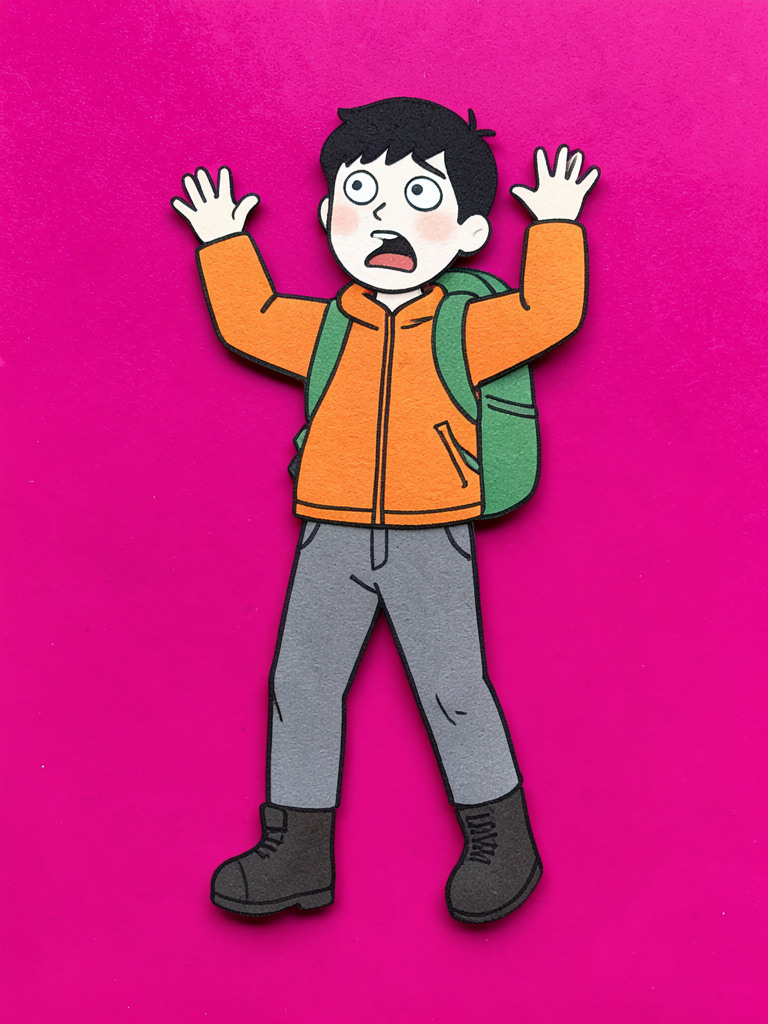
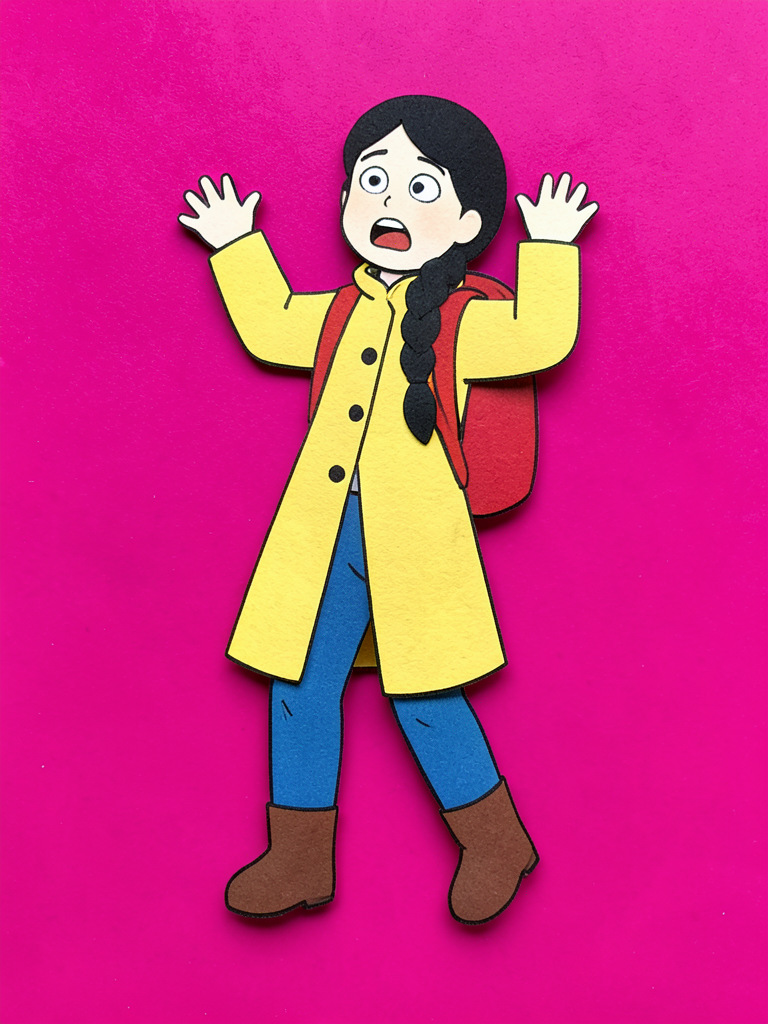
feat: give each Short its own explorer and its own music
The five Shorts posted one a day all showed the same hiker over the same
tune. Three of them now have their own explorer layer, and giay/nhac.js
gains selectable pieces (MUSIC in loi.js) that differ in instruments,
tempo, key and melody. A story without MUSIC gets "song", byte-identical
to the old output.

Changed region(s): [[0.2188, 0.0938, 0.8125, 0.9062], [0.8438, 0.1875, 0.9062, 0.2188]]

diff --git a/giay/nhac.js b/giay/nhac.js
@@ -1,16 +1,17 @@
 // Sound for a paper-cut story: joins the narration lines doc.js fetched and lays one unbroken piece under them,
-// in D minor pentatonic with a written melody. The moods of the shots only change how many layers play, so nothing
-// restarts between shots. Writes <story-folder>/xuat/am.m4a.
+// in a minor pentatonic with a written melody. The moods of the shots only change how many layers play, so nothing
+// restarts between shots. `const MUSIC = "<piece>"` in loi.js picks one of PIECES below (tempo, key, melody, lead
+// sound), so stories posted side by side do not all sound the same; without it the story gets "song".
+// Writes <story-folder>/xuat/am.m4a.
 // Usage: node giay/nhac.js <story-folder>
 const { execFileSync } = require("child_process");
 const fs = require("fs");
 const path = require("path");
 
 const SR = 44100;
-const BEAT = 60 / 72;
 const dir = path.resolve(process.argv[2]);
 const xuat = path.join(dir, "xuat");
-const SHOTS = new Function(fs.readFileSync(path.join(dir, "loi.js"), "utf8") + "\nreturn SHOTS;")();
+const [SHOTS, MUSIC] = new Function(fs.readFileSync(path.join(dir, "loi.js"), "utf8") + "\nreturn [SHOTS, typeof MUSIC === 'undefined' ? 'song' : MUSIC];")();
 const durs = JSON.parse(fs.readFileSync(path.join(xuat, "durs.json"), "utf8"));
 const ff = (args) => execFileSync("ffmpeg", ["-v", "error", "-y", ...args]);
 
@@ -61,29 +62,147 @@ function drum(f0) {
   return b;
 }
 
-const NOTE = { C4: 261.63, D4: 293.66, F4: 349.23, G4: 392, A4: 440, C5: 523.25, D5: 587.33 };
-const N = (name) => NOTE[name];
-// two four-bar phrases, one note per beat, null is a rest
-const MELODY = ["D4", "G4", "A4", "G4", "C5", "A4", "G4", "D4", "G4", "A4", "C5", "D5", "C5", "A4", "G4", null,
-  "D5", "C5", "A4", "G4", "A4", "G4", "D4", "C4", "D4", "G4", "A4", "G4", "D4", null, null, null];
-const ROOT = { D: [73.42, 110, 146.83], F: [87.31, 130.81, 174.61] };
+// glassy and long, for water and wonder
+function bell(f, dur) {
+  const b = new Float32Array(Math.round(Math.max(dur, 2.5) * SR));
+  for (let i = 0; i < b.length; i++) { const t = i / SR; b[i] = Math.min(1, t / 0.003) * (Math.exp(-t * 1.8) * Math.sin(2 * Math.PI * f * t) + 0.35 * Math.exp(-t * 4) * Math.sin(2 * Math.PI * 2.76 * f * t) + 0.12 * Math.exp(-t * 7) * Math.sin(2 * Math.PI * 5.4 * f * t)); }
+  return b;
+}
+// breathy and held, for air
+function flute(f, dur) {
+  const b = new Float32Array(Math.round(dur * SR));
+  let ph = 0;
+  for (let i = 0; i < b.length; i++) {
+    const t = i / SR;
+    ph += (2 * Math.PI * f * (1 + 0.004 * Math.min(1, t / 0.6) * Math.sin(2 * Math.PI * 5 * t))) / SR;
+    const env = Math.min(1, t / 0.09) * Math.exp(-t * 0.7) * Math.min(1, (dur - t) / 0.15);
+    b[i] = env * (Math.sin(ph) + 0.12 * Math.sin(2 * ph) + 0.04 * Math.sin(3 * ph));
+  }
+  return b;
+}
+// a marimba: wooden bar with its fourth partial, short
+function marimba(f, dur) {
+  const b = new Float32Array(Math.round(Math.min(dur, 0.9) * SR));
+  for (let i = 0; i < b.length; i++) { const t = i / SR; b[i] = Math.min(1, t / 0.002) * (Math.exp(-t * 6) * Math.sin(2 * Math.PI * f * t) + 0.3 * Math.exp(-t * 25) * Math.sin(8 * Math.PI * f * t)); }
+  return b;
+}
+// a harp string that rings on
+function harp(f, dur) {
+  const b = new Float32Array(Math.round(Math.max(dur, 1.5) * SR));
+  for (let i = 0; i < b.length; i++) { const t = i / SR, w = 2 * Math.PI * f * t; b[i] = Math.min(1, t / 0.003) * Math.exp(-t * 1.6) * (Math.sin(w) + 0.4 * Math.exp(-t * 3) * Math.sin(2 * w) + 0.15 * Math.exp(-t * 5) * Math.sin(3 * w)); }
+  return b;
+}
+// a round, slightly driven synth bass
+function bass(f, dur) {
+  const b = new Float32Array(Math.round(dur * SR));
+  for (let i = 0; i < b.length; i++) { const t = i / SR; b[i] = Math.tanh(1.8 * Math.sin(2 * Math.PI * f * t)) * Math.min(1, t / 0.005) * Math.exp(-t * 3.5) * Math.min(1, (dur - t) / 0.02); }
+  return b;
+}
+// two detuned voices that swell in and out, for a sustained chord
+function pad(f, dur) {
+  const b = new Float32Array(Math.round(dur * SR));
+  for (let i = 0; i < b.length; i++) { const t = i / SR, w = 2 * Math.PI * f * t; b[i] = 0.5 * (Math.sin(w) + Math.sin(w * 1.006) + 0.4 * Math.sin(2 * w)) * Math.min(1, t / 0.8, (dur - t) / 0.8); }
+  return b;
+}
+// noise from a fixed generator, so the same story always gets the same sound
+let seed = 1;
+const noise = () => { seed = (Math.imul(seed, 1664525) + 1013904223) >>> 0; return seed / 2147483648 - 1; };
+function hat() {
+  const b = new Float32Array(Math.round(0.08 * SR));
+  let prev = 0;
+  for (let i = 0; i < b.length; i++) { const n = noise(); b[i] = (n - prev) * Math.exp(-i / SR * 45); prev = n; }
+  return b;
+}
+function snare() {
+  const b = new Float32Array(Math.round(0.25 * SR));
+  for (let i = 0; i < b.length; i++) { const t = i / SR; b[i] = 0.6 * noise() * Math.exp(-t * 16) + 0.5 * Math.sin(2 * Math.PI * 180 * t) * Math.exp(-t * 20); }
+  return b;
+}
+
+const NOTE = { A3: 220, C4: 261.63, D4: 293.66, F4: 349.23, G4: 392, A4: 440, C5: 523.25, D5: 587.33, F5: 698.46 };
+// two four-bar phrases each, one note per beat, null is a rest; all on the D minor pentatonic, moved by `shift`
+const MELODIES = {
+  song: ["D4", "G4", "A4", "G4", "C5", "A4", "G4", "D4", "G4", "A4", "C5", "D5", "C5", "A4", "G4", null,
+    "D5", "C5", "A4", "G4", "A4", "G4", "D4", "C4", "D4", "G4", "A4", "G4", "D4", null, null, null],
+  rise: ["A4", "C5", "D5", null, "C5", "A4", "G4", null, "A4", "C5", "D5", "F5", "D5", null, null, null,
+    "D5", "C5", "A4", "C5", "A4", "G4", "F4", "G4", "A4", null, "G4", "D4", "D4", null, null, null],
+  walk: ["D4", null, "F4", "D4", "C4", null, "A3", null, "D4", "F4", "G4", "F4", "D4", null, null, null,
+    "G4", null, "F4", "D4", "F4", "G4", "A4", null, "G4", "F4", "D4", "C4", "D4", null, null, null],
+  run: ["D4", "D4", "F4", "G4", "A4", "G4", "F4", "D4", "D4", "F4", "G4", "A4", "C5", "A4", "G4", "F4",
+    "D5", "C5", "A4", "G4", "A4", "G4", "F4", "D4", "F4", "G4", "F4", "D4", "D4", null, "D4", null],
+  deep: ["A4", null, null, "G4", "D4", null, null, null, "F4", null, "G4", null, "A4", null, null, null,
+    "C5", null, "A4", null, "G4", null, "F4", null, "D4", null, null, null, null, null, null, null],
+};
+// Each piece has its own instruments, not only its own tune: the first version changed only tempo, key and melody
+// over the same đàn bầu, drone and drums, and under the voice the user heard no difference (2026-11-25).
+// beat(k, t, level, [root, fifth, octave], note) plays beat k; drone scales the held low note (0 drops it);
+// root "F" holds the major drone whatever the moods say.
+const PIECES = {
+  song: { bpm: 72, shift: 0, melody: "song", lift: 0, drone: 1, beat(k, t, level, R, note) {
+    // a sad part keeps only the first note of each bar
+    if (note && (level >= 1 || k % 4 === 0)) put(lead(N(note), BEAT * 2.2), t, 0.5);
+    if (level >= 2) [0, 1, 2, 1].forEach((n, j) => { if (j === (k % 4)) { put(pluck(R[n], BEAT), t, 0.28); put(pluck(R[2] * (j % 2 ? 1.5 : 1), BEAT * 0.5), t + BEAT / 2, 0.14); } });
+    if (level >= 2 && k % 4 === 0) put(drum(110), t, 0.5);
+    if (level >= 3) { if (k % 2 === 1) put(drum(150), t, 0.26); put(drum(180), t + BEAT / 2, 0.14); }
+  } },
+  // a flute over a held chord
+  air: { bpm: 84, shift: 2, melody: "rise", lift: 0, drone: 0.5, beat(k, t, level, R, note) {
+    if (note) put(flute(N(note), BEAT * 2), t, 0.45);
+    if (k % 4 === 0) [R[1] * 2, R[2] * 2].forEach((f) => put(pad(f, BEAT * 4.4), t, 0.2));
+    if (level >= 2 && k % 2 === 0) put(harp(R[2] * 3, BEAT), t + BEAT / 2, 0.15);
+  } },
+  // a marimba walking over a bass on every other beat and a soft tick
+  earth: { bpm: 66, shift: -5, melody: "walk", lift: 0, drone: 0, beat(k, t, level, R, note) {
+    if (note) put(marimba(N(note), BEAT), t, 0.6);
+    if (k % 2 === 0) put(bass(R[k % 4 ? 1 : 0] * 2, BEAT * 0.9), t, 0.5);
+    put(hat(), t, 0.1);
+    if (level >= 2) { put(hat(), t + BEAT / 2, 0.07); if (k % 4 === 0) put(drum(90), t, 0.45); }
+  } },
+  // drums on every beat and a bouncing bass, no melody instrument held long
+  fire: { bpm: 104, shift: 1, melody: "run", lift: 1, drone: 0, beat(k, t, level, R, note) {
+    put(drum(110), t, 0.55);
+    if (k % 2 === 1) put(snare(), t, 0.35);
+    put(hat(), t + BEAT / 2, 0.2);
+    if (level >= 2) put(hat(), t, 0.12);
+    put(bass([R[0], R[0], R[1], R[0]][k % 4] * 2, BEAT * 0.45), t, 0.45);
+    put(bass(R[0] * 2, BEAT * 0.3), t + BEAT / 2, 0.3);
+    if (note && k % 2 === 0) put(marimba(N(note), BEAT), t, 0.3);
+  } },
+  // long underwater chords and a bell, no drums
+  water: { bpm: 56, shift: -3, melody: "deep", lift: 0, drone: 1, beat(k, t, level, R, note) {
+    if (k % 4 === 0) { put(pad(R[0] * 2, BEAT * 4.5), t, 0.3); put(pad(R[1] * 2, BEAT * 4.5), t, 0.22); put(pad(R[0] * 4, BEAT * 4.5), t, 0.1); }
+    if (note) put(bell(N(note), BEAT * 2), t, 0.4);
+  } },
+  // a harp spelling a major chord in eighths, brighter than the rest
+  stone: { bpm: 76, shift: -2, melody: "rise", lift: 0, drone: 0.6, root: "F", beat(k, t, level, R, note) {
+    const arp = [R[0] * 2, R[1] * 2, R[2] * 2, R[2] * 2.52];
+    put(harp(arp[(2 * k) % 4], BEAT), t, 0.18); put(harp(arp[(2 * k + 1) % 4], BEAT), t + BEAT / 2, 0.14);
+    if (note) put(harp(N(note), BEAT * 2), t, 0.42);
+    if (level >= 2 && k % 4 === 0) put(drum(100), t, 0.35);
+  } },
+};
+const PIECE = PIECES[MUSIC];
+if (!PIECE) { console.error(`MUSIC "${MUSIC}" is not one of ${Object.keys(PIECES).join(", ")}`); process.exit(1); }
+const BEAT = 60 / PIECE.bpm;
+const KEY = 2 ** (PIECE.shift / 12);
+const N = (name) => NOTE[name] * KEY;
+const MELODY = MELODIES[PIECE.melody];
+const ROOT = { D: [73.42, 110, 146.83].map((f) => f * KEY), F: [87.31, 130.81, 174.61].map((f) => f * KEY) };
+const levelAt = (t) => Math.min(3, partAt(t).mood[0] + PIECE.lift);
+const rootAt = (t) => ROOT[PIECE.root || partAt(t).mood[1]];
 
 for (let k = 0; k * BEAT < total - 1.5; k++) {
-  const t = k * BEAT, [level, root] = partAt(t).mood, note = MELODY[k % MELODY.length];
-  // a sad part keeps only the first note of each bar
-  if (note && (level >= 1 || k % 4 === 0)) put(lead(N(note), BEAT * 2.2), t, 0.5);
-  if (level >= 2) [0, 1, 2, 1].forEach((n, j) => { if (j === (k % 4)) { put(pluck(ROOT[root][n], BEAT), t, 0.28); put(pluck(ROOT[root][2] * (j % 2 ? 1.5 : 1), BEAT * 0.5), t + BEAT / 2, 0.14); } });
-  if (level >= 2 && k % 4 === 0) put(drum(110), t, 0.5);
-  if (level >= 3) { if (k % 2 === 1) put(drum(150), t, 0.26); put(drum(180), t + BEAT / 2, 0.14); }
+  const t = k * BEAT;
+  PIECE.beat(k, t, levelAt(t), rootAt(t), MELODY[k % MELODY.length]);
 }
 
 // the drone crossfades between roots and swells with the level
-let d = 73.42, f = 110, lvl = 0.5, ph1 = 0, ph2 = 0;
-for (let i = 0; i < out.length; i++) {
-  const t = i / SR, [level, root] = partAt(t).mood, [r1, r2] = ROOT[root];
+let [d, f] = rootAt(0), lvl = 0.5, ph1 = 0, ph2 = 0;
+for (let i = 0; PIECE.drone && i < out.length; i++) {
+  const t = i / SR, level = levelAt(t), [r1, r2] = rootAt(t);
   d += (r1 - d) * 0.00008; f += (r2 - f) * 0.00008; lvl += (0.35 + 0.2 * level - lvl) * 0.00005;
   ph1 += (2 * Math.PI * d) / SR; ph2 += (2 * Math.PI * f) / SR;
-  out[i] += 0.16 * lvl * (Math.sin(ph1) + 0.6 * Math.sin(ph2)) * (0.85 + 0.15 * Math.sin(2 * Math.PI * 0.2 * t));
+  out[i] += PIECE.drone * 0.16 * lvl * (Math.sin(ph1) + 0.6 * Math.sin(ph2)) * (0.85 + 0.15 * Math.sin(2 * Math.PI * 0.2 * t));
 }
 
 // soften the top, fade the ends, and sit at -33 dBFS RMS: the user found -27 drowned the voice (2026-11-25)
@@ -105,4 +224,4 @@ fs.writeFileSync(wav, pcm);
 const mix = "[0:a]asplit[v1][v2];[1:a][v1]sidechaincompress=threshold=0.1:ratio=2.5:attack=15:release=500[b];[v2][b]amix=inputs=2:normalize=0:duration=longest,loudnorm=I=-15:TP=-1.5:LRA=11,aresample=44100[a]";
 const am = path.join(xuat, "am.m4a");
 ff(["-i", voice, "-i", wav, "-filter_complex", mix, "-map", "[a]", "-c:a", "aac", "-b:a", "160k", am]);
-console.log(`music ${total.toFixed(1)}s, peak ${(peak * gain).toFixed(2)} -> ${am}`);
+console.log(`music "${MUSIC}" ${total.toFixed(1)}s, peak ${(peak * gain).toFixed(2)} -> ${am}`);

diff --git a/ca-map-giay-en/anh.js b/ca-map-giay-en/anh.js
@@ -1,7 +1,8 @@
 // The paper layers of the short "Sharks in the rivers", copied from 300-trieu-nam-giay-en. See giay/sinh.js for plate, prop and puppet.
 // The plates are 1536x864 like the long video's: canh.js draws them enlarged to fill the tall frame.
 const W = [1536, 864];
-const BAN = "a young modern hiker with short black hair, an orange jacket, grey trousers, boots and a small green backpack";
+// each Short has its own explorer so the five do not repeat one face (the user asked on 2026-11-25)
+const BAN = "an older man with a grey beard, a wide-brimmed khaki hat, a khaki field shirt, brown trousers, boots and binoculars around his neck";
 module.exports = ({ plate, prop, puppet }) => ({
   "pl-rung": plate("Deep inside a misty prehistoric swamp forest, far rows of very tall straight tree trunks with scaly bark fading into pale green fog, layered dark green and teal paper, soft light beams from above.", W),
   "pl-nuoc": plate("Underwater in a murky river, layered torn paper bands from light green at the top to dark teal at the bottom, pale light rays from the surface, a few bubbles and water plants at the bottom edge.", W),

diff --git a/than-da-giay-en/anh.js b/than-da-giay-en/anh.js
@@ -1,7 +1,8 @@
 // The paper layers of the short "The forests that became coal", copied from 300-trieu-nam-giay-en. See giay/sinh.js for plate, prop and puppet.
 // The plates are 1536x864 like the long video's: canh.js draws them enlarged to fill the tall frame.
 const W = [1536, 864];
-const BAN = "a young modern hiker with short black hair, an orange jacket, grey trousers, boots and a small green backpack";
+// each Short has its own explorer so the five do not repeat one face (the user asked on 2026-11-25)
+const BAN = "a Black woman geologist with short curly hair, a white hard hat, blue work overalls, boots and a rock hammer on her belt";
 module.exports = ({ plate, prop, puppet }) => ({
   "pl-rung": plate("Deep inside a misty prehistoric swamp forest, far rows of very tall straight tree trunks with scaly bark fading into pale green fog, layered dark green and teal paper, soft light beams from above.", W),
   "pl-troi": plate("A warm hazy prehistoric sky made of layered torn paper bands from pale teal at the top to soft yellow at the bottom, a few cream paper clouds and a pale sun. No ground, no water, no trees.", W),

diff --git a/cuon-chieu-giay-en/anh.js b/cuon-chieu-giay-en/anh.js
@@ -1,7 +1,8 @@
 // The paper layers of the short "The 2.6 m millipede", copied from 300-trieu-nam-giay-en. See giay/sinh.js for plate, prop and puppet.
 // The plates are 1536x864 like the long video's: canh.js draws them enlarged to fill the tall frame.
 const W = [1536, 864];
-const BAN = "a young modern hiker with short black hair, an orange jacket, grey trousers, boots and a small green backpack";
+// each Short has its own explorer so the five do not repeat one face (the user asked on 2026-11-25)
+const BAN = "a young East Asian woman explorer with a long black braid, a yellow raincoat, blue jeans, brown boots and a red backpack";
 module.exports = ({ plate, prop, puppet }) => ({
   "pl-rung": plate("Deep inside a misty prehistoric swamp forest, far rows of very tall straight tree trunks with scaly bark fading into pale green fog, layered dark green and teal paper, soft light beams from above.", W),
   "pc-vay": prop("One very tall prehistoric scale tree, a straight green-brown trunk covered with a diamond pattern like snake scales, a small crown of drooping grass-like branches only at the very top", [512, 1024]),

diff --git a/chay-rung-giay-en/loi.js b/chay-rung-giay-en/loi.js
@@ -3,6 +3,7 @@
 // (Scott & Glasspool 2006, PNAS). Burning damp plants at high oxygen follows the fire-window argument, not a measurement.
 const LANG = "en";
 const TEMPO = 1.1;
+const MUSIC = "fire";
 const SUBS = false;
 const S = (label, mood, ...texts) => ({ label, mood, hot: [], lines: texts.map((t) => [null, t]) });
 const SHOTS = [

diff --git a/than-da-giay-en/loi.js b/than-da-giay-en/loi.js
@@ -3,6 +3,7 @@
 // whose name means coal-bearing. Checked against web-search summaries on 2026-11-23, not the papers.
 const LANG = "en";
 const TEMPO = 1.1;
+const MUSIC = "stone";
 const SUBS = false;
 const S = (label, mood, ...texts) => ({ label, mood, hot: [], lines: texts.map((t) => [null, t]) });
 const SHOTS = [

diff --git a/cuon-chieu-giay-en/loi.js b/cuon-chieu-giay-en/loi.js
@@ -3,6 +3,7 @@
 // lasted about 45 million years and died out in the Permian. Its diet is inferred, not known.
 const LANG = "en";
 const TEMPO = 1.1;
+const MUSIC = "earth";
 const SUBS = false;
 const S = (label, mood, ...texts) => ({ label, mood, hot: [], lines: texts.map((t) => [null, t]) });
 const SHOTS = [

diff --git a/ca-map-giay-en/loi.js b/ca-map-giay-en/loi.js
@@ -3,6 +3,7 @@
 // temnospondyl amphibians. Checked against web-search summaries, not the papers.
 const LANG = "en";
 const TEMPO = 1.1;
+const MUSIC = "water";
 const SUBS = false;
 const S = (label, mood, ...texts) => ({ label, mood, hot: [], lines: texts.map((t) => [null, t]) });
 const SHOTS = [

diff --git a/CLAUDE.md b/CLAUDE.md
@@ -93,7 +93,8 @@ node giay/quay.js <story-folder>         # <story-folder>/<story-folder>.mp4 and
 - The lengths in `durs.json` come from the real voice. To lay out a story while the voice is still
   being fetched, write estimated lengths there (about `1100 + 62 * letters` ms per line); `doc.js`
   overwrites the file when it finishes.
-- `giay/nhac.js` plays one unbroken pentatonic piece and only adds or drops layers with the mood.
+- `giay/nhac.js` plays one unbroken pentatonic piece and only adds or drops layers with the mood. `const MUSIC = "<piece>"` in
+  `loi.js` picks one of its `PIECES` (`song`, the default, and `air`, `earth`, `fire`, `water`, `stone`: each its own instruments, tempo, key and melody), so Shorts posted day after day do not share one tune (the user asked on 2026-11-25).
   The root `nhac.js` restarts a random melody at every mood change, which sounds harsh in a cut of
   short shots, and the user disliked it.
 - `giay/quay.js` steps the page frame by frame (`window.renderAt(seconds)`), so no frame is dropped.
